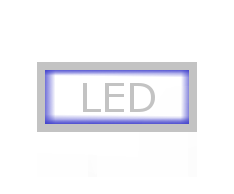
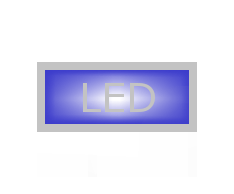
toggle buttons reworked for gpiozero

Changed region(s): [[0.1795, 0.3402, 0.8077, 0.6495]]

diff --git a/main copy.py b/main copy.py
@@ -1,11 +1,16 @@
 from guizero import App, Window, PushButton, Box, Picture, Slider, Text, Drawing
 from colormap import rgb2hex
-from gpiozero import PWMLED, LED
+import RPi.GPIO as GPIO
+from gpiozero import PWMLED
 
 app = App(title="bollwagen", bg="black", layout="grid")
 
-
+GPIO.setwarnings(False)
+GPIO.setmode(GPIO.BOARD)
 path = '/home/pi/Desktop/bw/'
+
+led = PWMLED(17)
+
 ###########################################################################################################################################
 ### Toggle Buttons ########################################################################################################################
 
@@ -15,30 +20,38 @@ class tButton:
         self.index = index
         self.image = image
         self.grid = grid
-        self.led = LED(gpio)
-        
-        self.generateTileButton()
+        self.gpio = gpio
 
-    def toggle(self):
-        self.led.toggle()
-        if(self.led.is_active):
-            self.button.image = path + self.image+'_on.png'
-        else: 
-            self.button.image = path + self.image+'_off.png'
 
-    def generateTileButton(self):
-        self.button = PushButton(app, command=self.toggle,
-                                         grid=self.grid, align='left', image=path + self.image+'_off.png')
+def general_callback(n):
+    print('general_callback()', n)
+    if GPIO.input(toggleButtons[n].gpio) == 0:
+        led.value = 0.8
+        toggle_pushButtons[n].image = toggleButtons[n].image+'_on.png'
+        GPIO.output(toggleButtons[n].gpio, GPIO.HIGH)
+    else:
+        led.value = 0.3
+        toggle_pushButtons[n].image = toggleButtons[n].image+'_off.png'
+        GPIO.output(toggleButtons[n].gpio, GPIO.LOW)
 
 
 toggleButtons = []
 # index,image,grid,gpio
-toggleButtons.append(tButton(0, 'sign', [0, 0], 14))
-toggleButtons.append(tButton(1, 'outside', [1, 0], 15))
-toggleButtons.append(tButton(2, 'shots', [0, 1], 16))
+toggleButtons.append(tButton(0, 'sign', [0, 0], 40))
+toggleButtons.append(tButton(1, 'outside', [1, 0], 38))
+toggleButtons.append(tButton(2, 'shots', [0, 1], 36))
+
+toggle_pushButtons = []
+for tButton in toggleButtons:
+    GPIO.setup(tButton.gpio, GPIO.OUT)
+    GPIO.output(tButton.gpio, GPIO.LOW)
+    toggle_pushButtons.append(PushButton(app, args=[tButton.index], command=general_callback,
+                                         grid=tButton.grid, align='left', image=path + tButton.image+'_off.png'))
 
 ###########################################################################################################################################
 ### Menu Buttons ##########################################################################################################################
+
+
 class mTile:
     def __init__(self, index, image, grid):
         self.index = index
@@ -76,12 +89,8 @@ class mTileLed(mTile):
     g = 0,
     b = 0,
 
-    def __init__(self, index, image, grid, gpioR, gpioG, gpioB):
+    def __init__(self, index, image, grid):
         super().__init__(index, image, grid)
-        self.ledR = PWMLED(gpioR)
-        self.ledG = PWMLED(gpioG)
-        self.ledB = PWMLED(gpioB)
-
         self.generateDrawing()
         self.generateSliders()
 
@@ -97,18 +106,14 @@ class mTileLed(mTile):
             self.button.image = self.image + "_off.png"
 
     def sliderRedChanged(self, n):
-        self.ledR.value = int(n)/255
-        print(self.ledR.value)
         self.r = int(n)
         self.drawColor()
 
     def sliderGreenChanged(self, n):
-        self.ledG.value = int(n)/255
         self.g = int(n)
         self.drawColor()
 
     def sliderBlueChanged(self, n):
-        self.ledB.value = int(n)/255
         self.b = int(n)
         self.drawColor()
 
@@ -129,9 +134,9 @@ class mTileLed(mTile):
 menuTiles = []
 
 #index, image, grid
-menuTiles.append(mTileLed(0, 'ambient', [1, 1], 3, 5 ,7 ))
+menuTiles.append(mTileLed(0, 'ambient', [1, 1]))
 menuTiles.append(mTile(1, 'effect', [0, 2]))
-menuTiles.append(mTile(2, 'logo', [1, 2]))
+menuTiles.append(mTileLed(2, 'logo', [1, 2]))
 menuTiles.append(mTile(3, 'vent', [0, 3]))
 menuTiles.append(mTile(4, 'money', [1, 3]))
 
